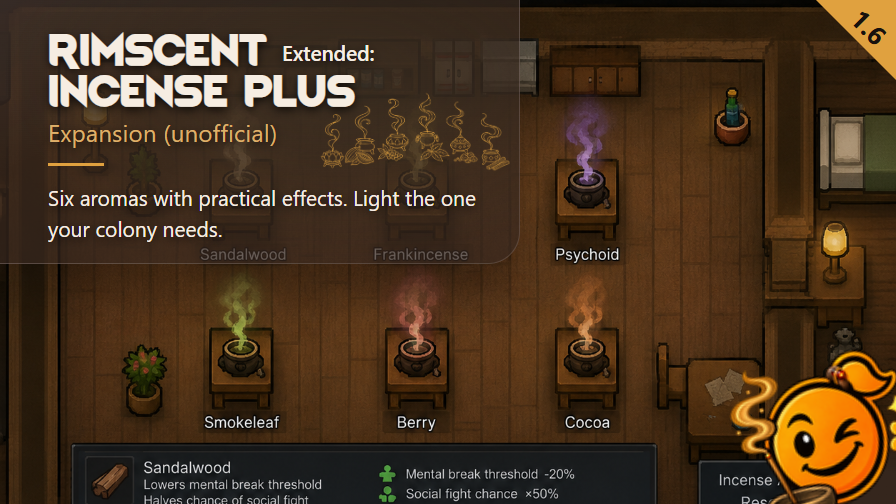
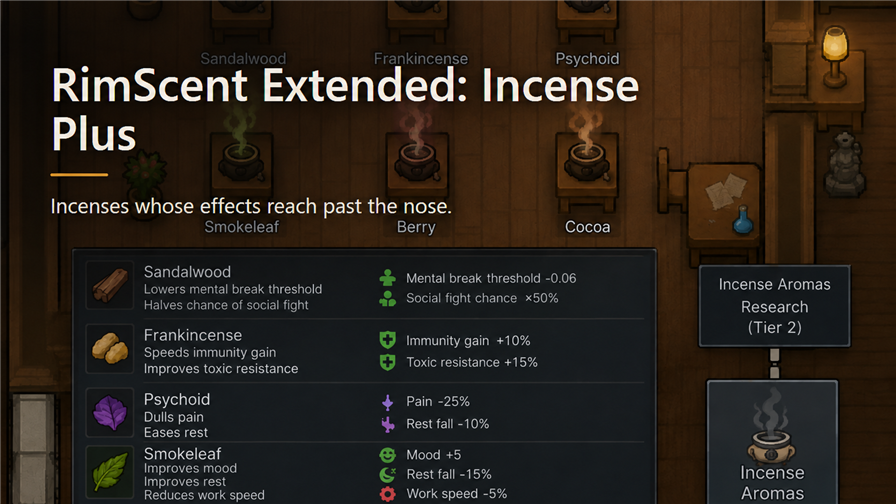
Replace Preview.png with the corrected render (values match the defs)

diff --git a/STATUS.md b/STATUS.md
@@ -23,12 +23,12 @@ remaining:
   - "2026-11-12: 8.c minimal Pickle pass green EN and FR (1/1 each, evidence Tests/Pickle/Evidence/minimal-load-en and -fr); stays: 8.g functional scenarios, 1.7 pass"
   - "2026-11-11: unverified: 8.g functional scenarios of Docs/TEST_SCENARIOS.md not played"
   - "2026-11-11: unverified: 1.7 pass not started (tested_1_7 absent)"
-  - "2026-11-11: defect: Preview-source.png background still shows Mental break threshold -20% while the def says -0.06; echo and 1.6 ribbon rendered as is"
+  - "2026-11-12: Preview.png replaced by the owner-approved corrected render (values -0.06, +10%, +15% match the defs); Preview-source.png background still shows the old values, so do not rerun Render-Preview.cjs until a corrected source exists"
   - "2026-11-11: unverified: upstream_mod_remotes set to N/A without a search for the RimScent repositories"
   - "2026-11-11: unverified: Preview.png regenerated and committed in 023db5f; its values against the delivered defs not rechecked (earlier defect: values disagreed with the defs)"
   - "2026-11-11: unverified: game load, dependency integration, research, construction, aroma effects, expiry, persistence, and French/English display never run"
 updated: 2026-11-12
-protocols_read_sha: 007e0b122a4c6c53162804fe97034c68a85d8be4
+protocols_read_sha: ba6b78893666b82100fbbc3d3769fbd913f735bf
 ---
 
 # RimScent Extended: Incense Plus Expansion: status
